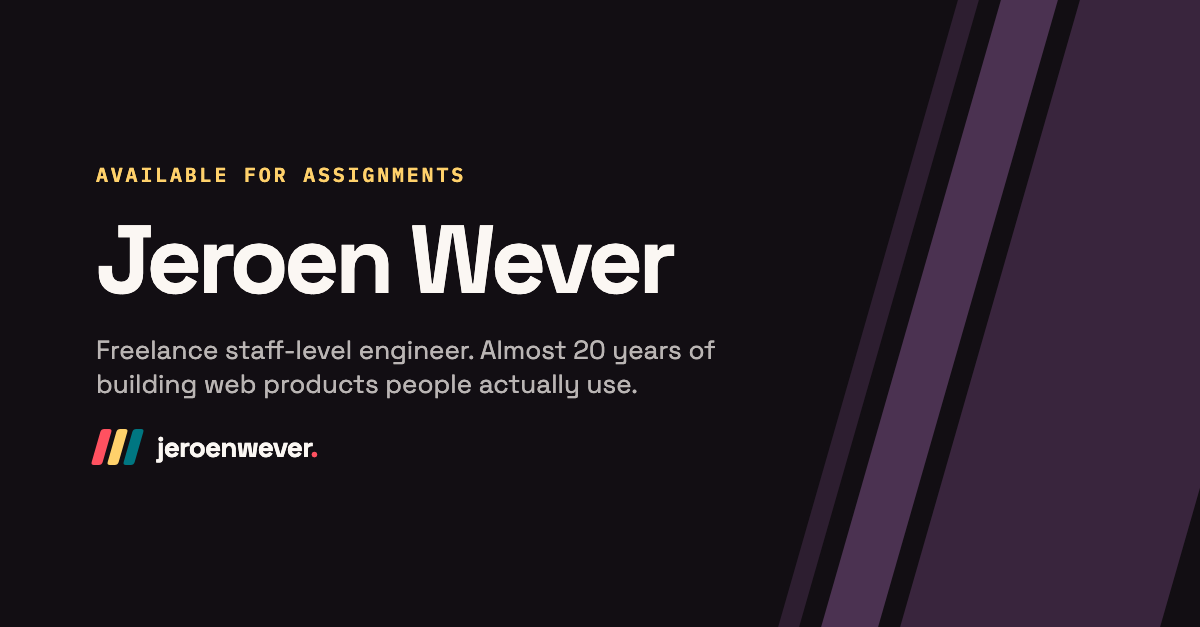
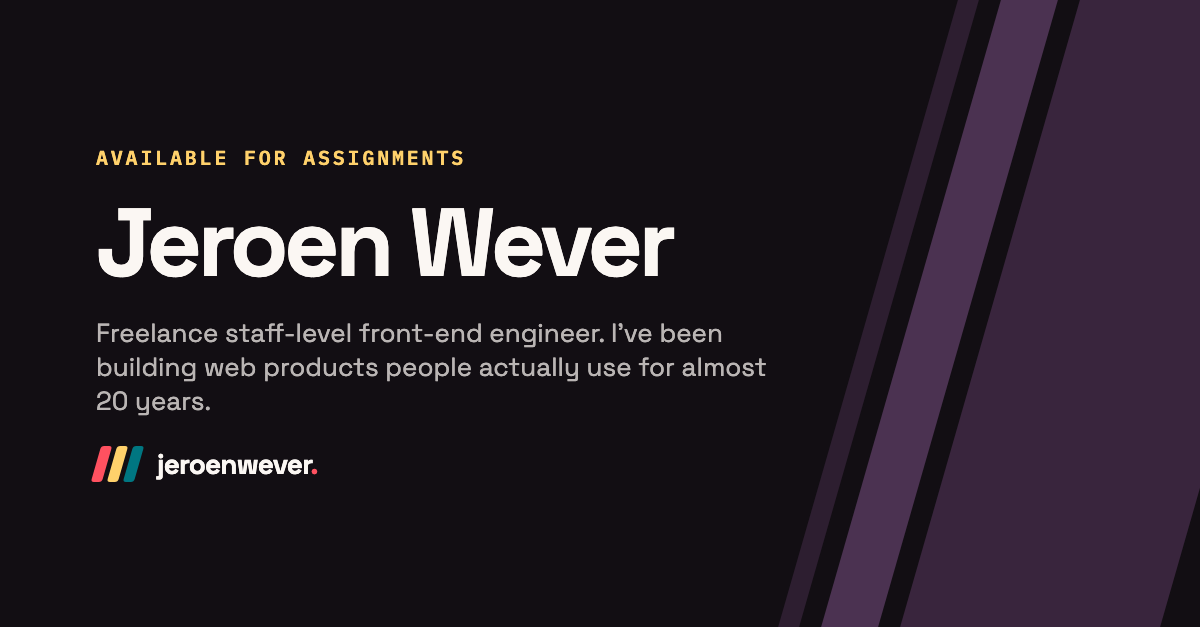
brand: front-end title on the LinkedIn assets
Claude-Session: https://claude.ai/code/session_011oV1bhX4B6ZHj2wGyMunWh

Changed region(s): [[0.0617, 0.5152, 0.6475, 0.7879], [0.0617, 0.3333, 0.5858, 0.4848], [0.0617, 0.2424, 0.4008, 0.303]]

diff --git a/scripts/generate-brand.ts b/scripts/generate-brand.ts
@@ -60,7 +60,7 @@ const assets = [
       <div style="position:relative;margin-left:auto;padding-right:96px;display:flex;
                   flex-direction:column;align-items:flex-end;gap:22px;text-align:right">
         ${mark(16, 54, 7, 44)}
-        <p class="kicker" style="font-size:19px">Freelance staff-level engineer</p>
+        <p class="kicker" style="font-size:19px">Freelance staff-level front-end engineer</p>
       </div>`,
   },
   {
@@ -71,7 +71,7 @@ const assets = [
       <div style="position:relative;padding:0 96px;display:flex;flex-direction:column;gap:28px">
         <p class="kicker" style="font-size:20px">Available for assignments</p>
         <h1 style="font-size:96px;line-height:0.94;font-weight:700;letter-spacing:-0.045em;max-width:14ch">Jeroen Wever</h1>
-        <p style="font-size:26px;color:rgba(251,247,243,0.72);max-width:42ch">Freelance staff-level engineer. Almost 20 years of building web products people actually use.</p>
+        <p style="font-size:26px;color:rgba(251,247,243,0.72);max-width:42ch">Freelance staff-level front-end engineer. I've been building web products people actually use for almost 20 years.</p>
         ${mark(11, 36, 5, 28)}
       </div>`,
   },
